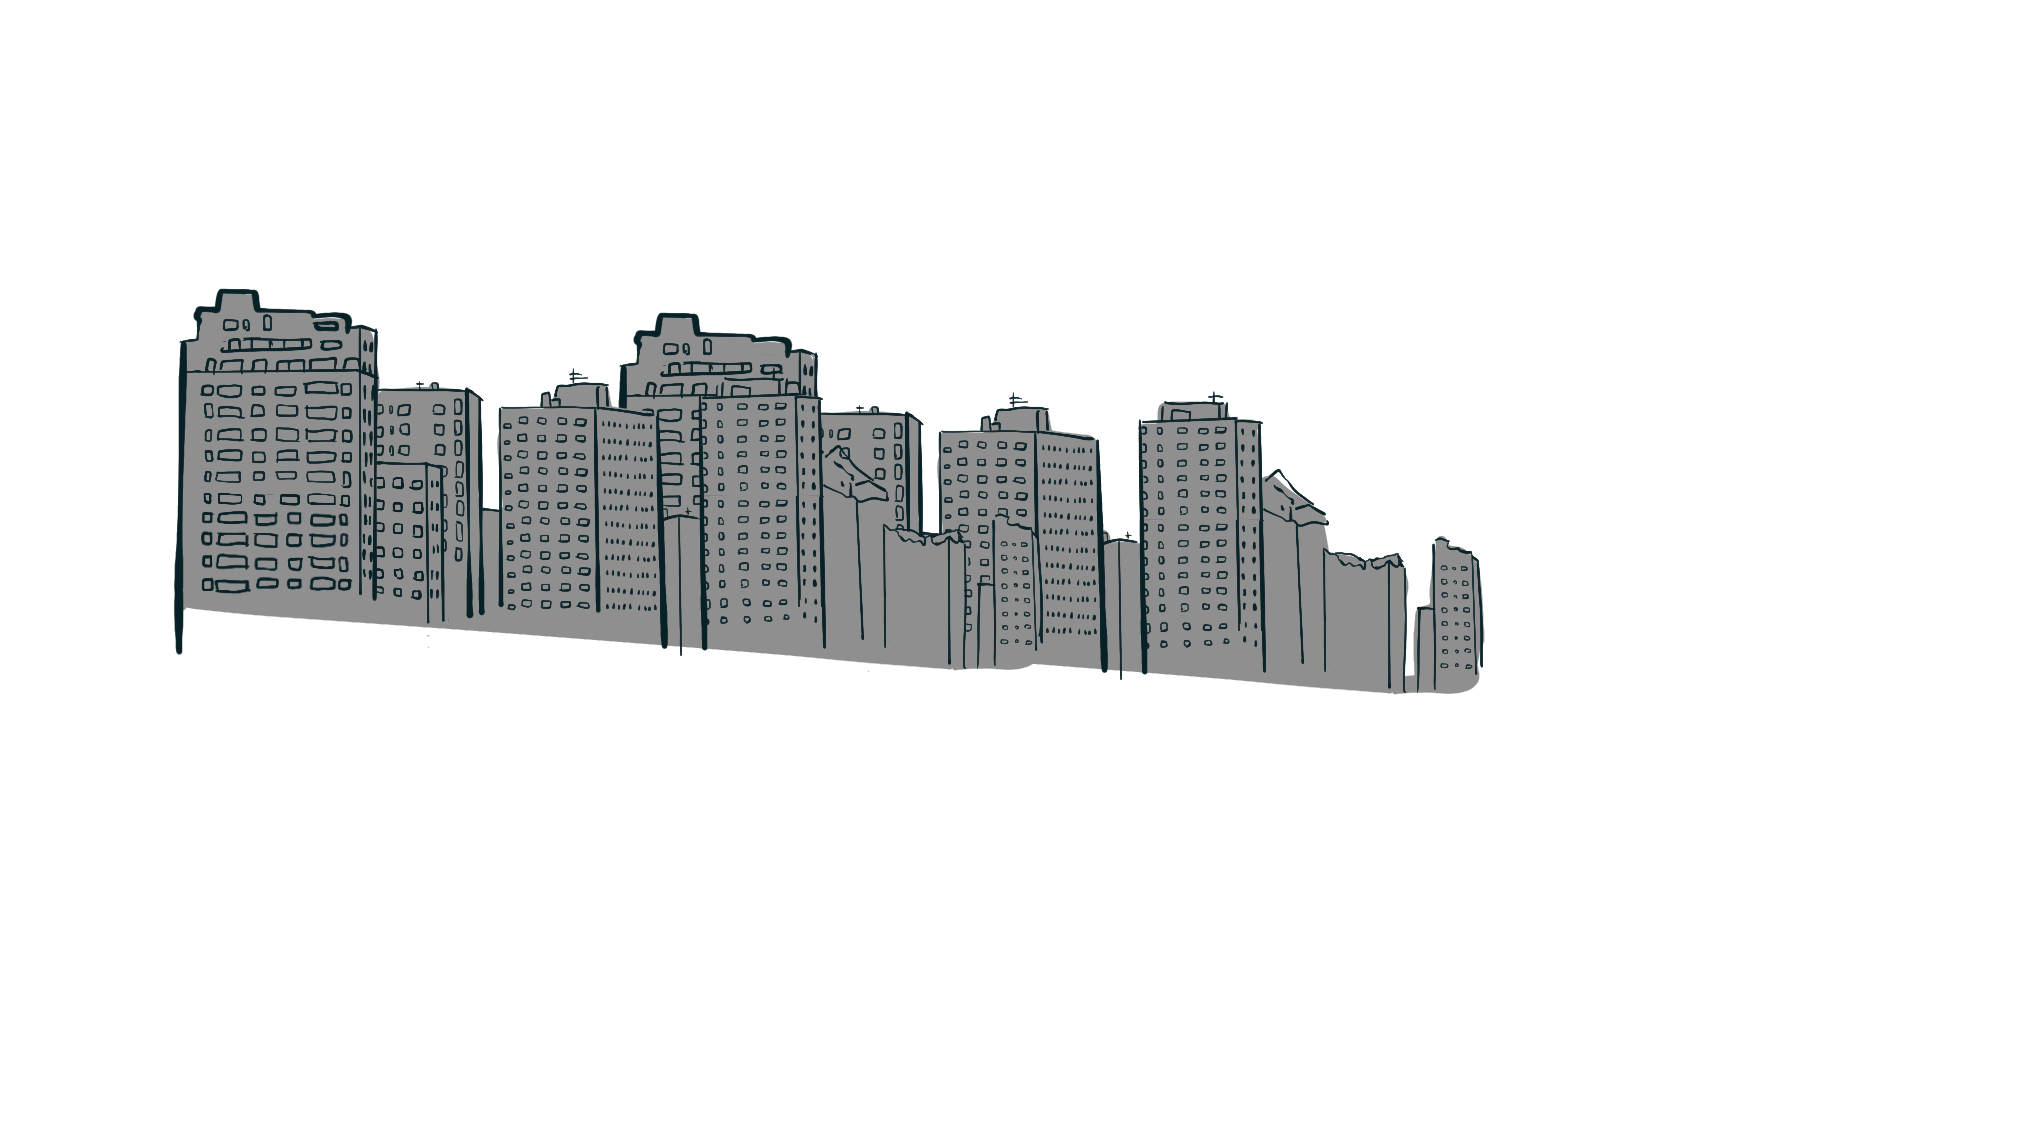
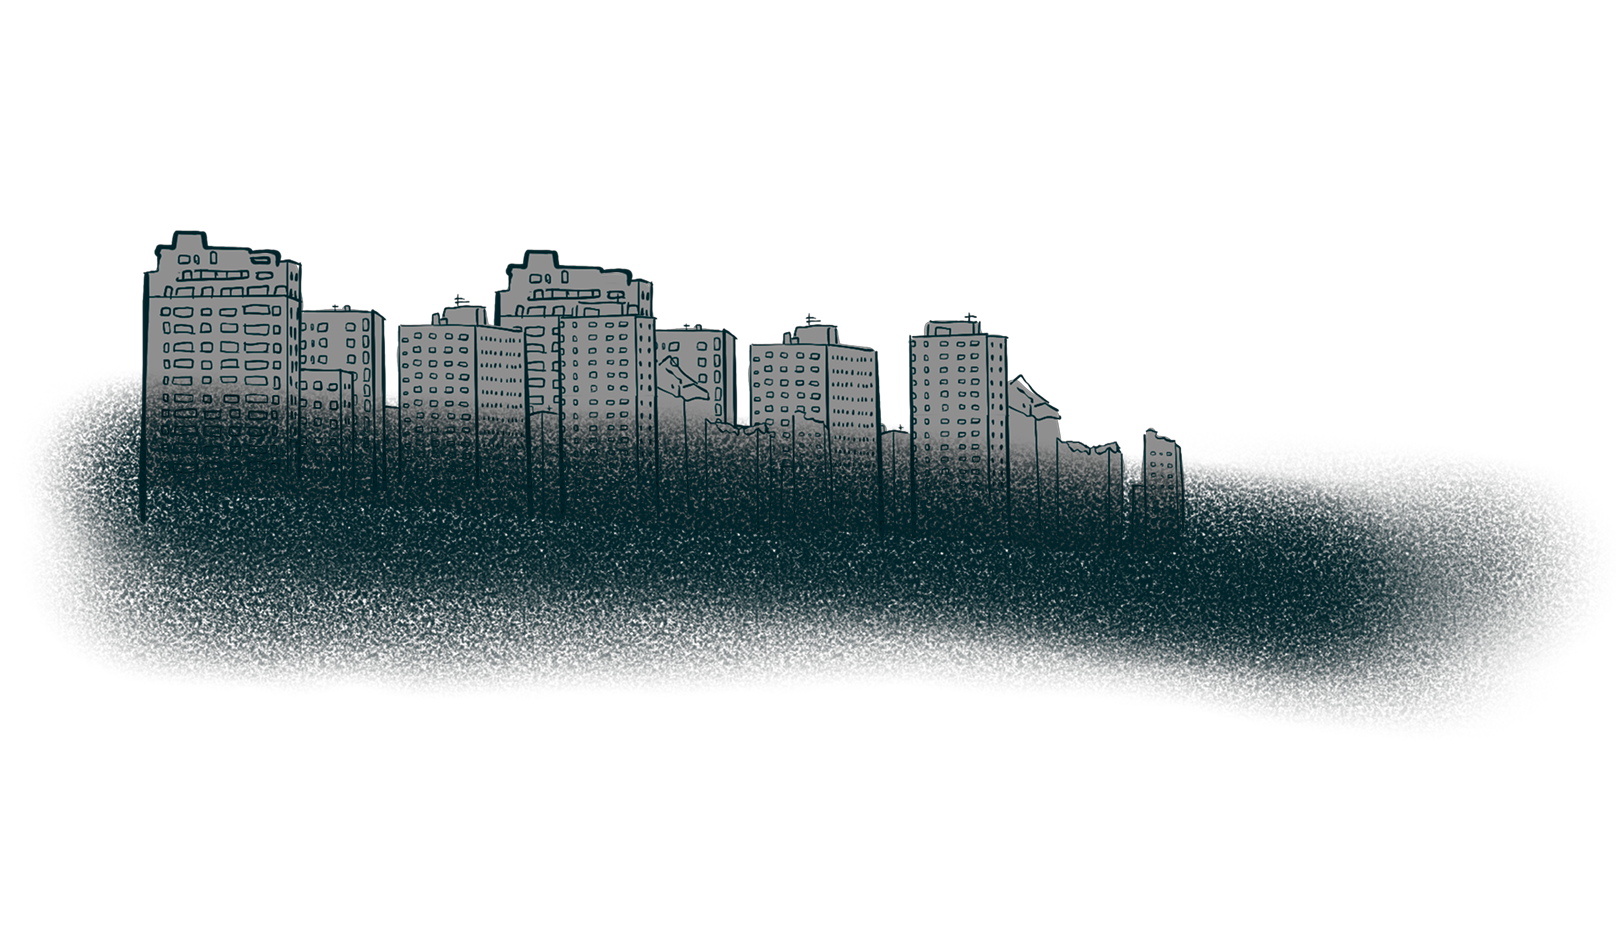
css fix first section

Changed region(s): [[0.0309, 0.2481, 0.9895, 0.7754]]

diff --git a/index.html b/index.html
@@ -27,7 +27,7 @@
     </div>
   <div class="sticky-graphic">
     <div class="graphic parallax-scene">
-      <img src="img/city-dust.png" class="layer layer-dust" alt="Dust layer" />
+      <!-- <img src="img/city-dust.png" class="layer layer-dust" alt="Dust layer" /> -->
       <img src="img/city-buildings.png" class="layer layer-buildings" alt="Buildings layer" />
       <img src="img/city-mosque.png" class="layer layer-mosque" alt="Mosque layer" />
       <img src="img/city-tents.png" class="layer layer-tents" alt="Tents layer" />
@@ -119,7 +119,6 @@
       <p class="testemonial">
           “Like all Palestinians here, I had received Israel’s messages ordering us to evacuate the northern half of the strip within 24 hours…On Salah al-Din Road — the main highway that runs through the strip from north to south and connects all of its towns — thousands of families were making the same journey. Some were hurrying on foot, carrying whatever belongings they could, and others were riding on large trucks or in their cars.”
       </p>
-      <p class="update-text">* <b>Update</b> from 2025 – As for January 2025...</p>
     </div>
   </div>
 
@@ -175,7 +174,6 @@
       <p class="testemonial">
         “After 47 days of continuous bombing and destruction, the news that Israel and Hamas had reached a temporary ceasefire agreement was met with cautious relief here in Khan Younis, in the southern Gaza Strip… But the relief also brings sorrow and anxiety, as people face up to the scale of the devastation caused by Israel’s bombardment — including the loss of loved ones and homes.”
       </p>
-      <p class="update-text">* <b>Update</b> from 2025 – As for January 2025...</p>
     </div>
   </div>
 
@@ -267,7 +265,6 @@
       <p class="testemonial">
         The offensive comes only weeks after reports that Prime Minister Benjamin Netanyahu was considering a proposal, known as the Generals’ Plan, to ethnically cleanse the entirety of northern Gaza through a campaign of starvation and extermination. As such, there are widespread concerns…that Israel may now be putting that plan into action.”
       </p>
-      <p class="update-text">* <b>Update</b> from 2025 – As for January 2025...</p>
     </div>
   </div>
 
@@ -293,7 +290,6 @@
       <p class="testemonial">
         “Despite the relentless Israeli bombings across the Gaza Strip, many Palestinians remain cautiously optimistic that this time a ceasefire could hold. In some tent camps, displaced residents were already celebrating in the belief that they might soon return home — even as their houses lie in ruins — and reunite with family members from whom they have been separated.”
       </p>
-      <p class="update-text">* <b>Update</b> from 2025 – As for January 2025...</p>
     </div>
   </div>
 
@@ -320,7 +316,6 @@
       <p class="testemonial">
         “Despite the relentless Israeli bombings across the Gaza Strip, many Palestinians remain cautiously optimistic that this time a ceasefire could hold. In some tent camps, displaced residents were already celebrating in the belief that they might soon return home — even as their houses lie in ruins — and reunite with family members from whom they have been separated.”
       </p>
-      <p class="update-text">* <b>Update</b> from 2025 – As for January 2025...</p>
     </div>
   </div>
 
@@ -384,8 +379,6 @@
       <p class="testemonial citation">
           Our bodies are breaking down. We feel constantly weak, unfocused, and off-balance. We grow irritable easily, but most of the time we just stay silent. Talking uses up too much energy.
       </p>
-
-        <p class="update-text">* <b>Update</b> from 2025 – As for January 2025...</p>
     </div>
   </div>
 

diff --git a/style.css b/style.css
@@ -38,7 +38,7 @@ body {
 
 .intro-section {
   position: relative;
-  height: 230vh; /* taller parent */
+  height: 250vh; /* taller parent */
 }
 
 .sticky-graphic {
@@ -64,7 +64,7 @@ body {
 
 .layer {
   position: absolute;
-  bottom: 0;
+  bottom: 10%;
   width: 100%;
   max-width: 1200px;
   pointer-events: none;
@@ -96,7 +96,7 @@ body {
   left: 0;
   width: 100%;
   height: 40vh;
-  background: linear-gradient(to bottom, rgba(254,244,234,0) 0%, #fef4ea 90%);
+  background: linear-gradient(to bottom, rgba(254,244,234,0) 0%, #fef4ea 70%);
   z-index: 10;
 }
 
@@ -134,7 +134,7 @@ body {
   left: 0;
   width: 100%;
   height: 60vh;
-  background: linear-gradient(to bottom, rgba(254,244,234,0) 0%, #fef4ea 90%);
+  background: linear-gradient(to bottom, rgba(254,244,234,0) 0%, #fef4ea 70%);
   z-index: 1;
 }
 
@@ -668,6 +668,14 @@ position: relative;}
 body {
     background: linear-gradient(to bottom, #ffffff 0%,  #faf3e8 20%, #faf3e8 90%,  #060531 95%, #060531 100%);
  }
+
+ .layer {
+  bottom: 0;
+}
+
+.layer-mosque {
+  margin-left: -80px;
+}
 
   .testemonial.citation::before {
   top: 0;

diff --git a/effect.js b/effect.js
@@ -44,6 +44,30 @@ document.addEventListener("scroll", () => {
   // document.querySelector(".layer-press").style.transform = `translateX(${progress * -10}px)`; // moves opposite for depth
 });
  
+// opening swap
+
+(() => {
+  const mobileQuery = window.matchMedia("(max-width: 768px)");
+  const layers = document.querySelectorAll(".intro-section .layer");
+
+  const swapImages = (isMobile) => {
+    layers.forEach(img => {
+      const src = img.getAttribute("src");
+      const base = src.replace(/-m(\.[a-z]+)$/i, "$1"); // remove -m if exists
+      const ext = base.split(".").pop();
+      const baseName = base.substring(0, base.lastIndexOf("."));
+      const newSrc = isMobile ? `${baseName}-m.${ext}` : `${baseName}.${ext}`;
+      if (src !== newSrc) img.setAttribute("src", newSrc);
+    });
+  };
+
+  // run on load
+  swapImages(mobileQuery.matches);
+
+  // run on resize / device rotation
+  mobileQuery.addEventListener("change", e => swapImages(e.matches));
+})();
+
 
 // map change effect
 document.addEventListener("DOMContentLoaded", () => {
